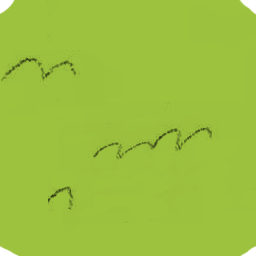
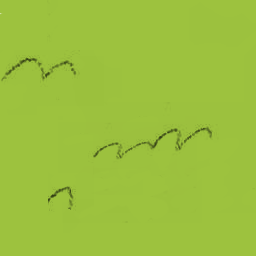
Ground sprites gefixt zodat er geen zwarte stipjes meer ontstaan. Main menu achter grond toegevoegd

diff --git a/GameManagement/GameObject.cs b/GameManagement/GameObject.cs
@@ -5,120 +5,136 @@ using System;
 
 namespace Poloknightse
 {
-	public class GameObject
-	{
-		protected GameObject parent;
-		protected Texture2D texture;
-		protected int layer;
-		protected string id;
-		public Point gridPosition;
-		public Vector2 velocity;
-		protected Rectangle positionSize;
+    public class GameObject
+    {
+        protected GameObject parent;
+        protected Texture2D texture;
+        protected int layer;
+        protected string id;
+        public Point gridPosition;
+        public Vector2 velocity;
+        protected Rectangle positionSize;
 
-		public GameObject(Point gridPosition, string assetName = null, int layer = 0)
-		{
-			this.gridPosition = gridPosition;
-			if (assetName != null)
-			{
-				texture = GameEnvironment.ContentManager.Load<Texture2D>(assetName);
-				positionSize = new Rectangle(0, 0, GameEnvironment.gridTileSize, GameEnvironment.gridTileSize);
-			}
-			this.layer = layer;
-		}
+        public GameObject(Point? gridPosition = null, string assetName = null, int layer = 0)
+        {
+            if (gridPosition == null) gridPosition = new Point();
+            this.gridPosition = gridPosition.Value;
+            if (assetName != null)
+            {
+                texture = GameEnvironment.ContentManager.Load<Texture2D>(assetName);
+            }
+            this.layer = layer;
+        }
 
-		/// <summary>
-		/// This will be called to reset the gameobject
-		/// </summary>
-		public virtual void Reset()
-		{
-
-		}
-
-		/// <summary>
-		/// This will be called after the level is loaded
-		/// </summary>
-		public virtual void Initialize()
+        /// <summary>
+        /// This will be called to reset the gameobject
+        /// </summary>
+        public virtual void Reset()
         {
 
         }
 
-		/// <summary>
-		/// HandleInput will be called every frame before <see cref="Update(GameTime)"/>
-		/// </summary>
-		/// <param name="inputHelper">Will help with getting input data</param>
-		public virtual void HandleInput(InputHelper inputHelper)
-		{
-		}
+        /// <summary>
+        /// This will be called after the level is loaded
+        /// </summary>
+        public virtual void Initialize()
+        {
 
-		/// <summary>
-		/// Update will be called every frame
-		/// </summary>
-		/// <param name="gameTime">Stores game time data</param>
-		public virtual void Update(GameTime gameTime)
-		{
-			positionSize = new Rectangle(
-				(int)gridPosition.X * GameEnvironment.gridTileSize + GameEnvironment.startGridPoint.X,
-				(int)gridPosition.Y * GameEnvironment.gridTileSize + GameEnvironment.startGridPoint.Y,
-				GameEnvironment.gridTileSize,
-				GameEnvironment.gridTileSize);
-		}
+        }
 
-		/// <summary>
-		/// FixedUpdate will be called on a set time frame
-		/// </summary>
-		/// <param name="gameTime">Stores game time data</param>
-		public virtual void FixedUpdate(GameTime gameTime)
-		{
-		}
+        /// <summary>
+        /// HandleInput will be called every frame before <see cref="Update(GameTime)"/>
+        /// </summary>
+        /// <param name="inputHelper">Will help with getting input data</param>
+        public virtual void HandleInput(InputHelper inputHelper)
+        {
+        }
 
-		public virtual void Draw(SpriteBatch spriteBatch)
-		{
-			spriteBatch.Draw(texture, positionSize, Color.White);
-		}
+        /// <summary>
+        /// Update will be called every frame
+        /// </summary>
+        /// <param name="gameTime">Stores game time data</param>
+        public virtual void Update(GameTime gameTime)
+        {
 
-		// boolean to check if to objects collide
-		public bool CheckCollision(GameObject gameObject)
-		{
-			float x0 = this.gridPosition.X,
-				  y0 = this.gridPosition.Y,
-				  x1 = gameObject.gridPosition.X,
-				  y1 = gameObject.gridPosition.Y;
-			if (x0 == x1 && y0 == y1)
-			{
-				return true;
-			}
-			else
-			{
-				return false;
-			}
-		}
-		public GameObject Root
-		{
-			get
-			{
-				if (parent != null)
-				{
-					return parent.Root;
-				}
-				else
-				{
-					return this;
-				}
-			}
-		}
-		public virtual GameObject Parent
-		{
-			get { return parent; }
-			set { parent = value; }
-		}
-		public virtual int Layer
-		{
-			get { return layer; }
-			set { layer = value; }
-		}
-		public string Id
-		{
-			get { return id; }
-		}
-	}
+        }
+
+        /// <summary>
+        /// FixedUpdate will be called on a set time frame
+        /// </summary>
+        /// <param name="gameTime">Stores game time data</param>
+        public virtual void FixedUpdate(GameTime gameTime)
+        {
+        }
+
+        public virtual void Draw(SpriteBatch spriteBatch)
+        {
+            positionSize = new Rectangle(
+                gridPosition.X * GameEnvironment.gridTileSize + GameEnvironment.startGridPoint.X,
+                gridPosition.Y * GameEnvironment.gridTileSize + GameEnvironment.startGridPoint.Y,
+                GameEnvironment.gridTileSize,
+                GameEnvironment.gridTileSize);
+            spriteBatch.Draw(texture, positionSize, Color.White);
+        }
+
+        // boolean to check if to objects collide
+        public bool CheckCollision(GameObject gameObject)
+        {
+            float x0 = this.gridPosition.X,
+                  y0 = this.gridPosition.Y,
+                  x1 = gameObject.gridPosition.X,
+                  y1 = gameObject.gridPosition.Y;
+            if (x0 == x1 && y0 == y1)
+            {
+                return true;
+            }
+            else
+            {
+                return false;
+            }
+        }
+
+        public bool IsInLevel
+        {
+            get
+            {
+                return LevelLoader.grid.GetLength(0) > gridPosition.X &&
+                    LevelLoader.grid.GetLength(1) > gridPosition.Y &&
+                    gridPosition.X >= 0 &&
+                    gridPosition.Y >= 0;
+            }
+        }
+
+        public GameObject Root
+        {
+            get
+            {
+                if (parent != null)
+                {
+                    return parent.Root;
+                }
+                else
+                {
+                    return this;
+                }
+            }
+        }
+
+        public virtual GameObject Parent
+        {
+            get { return parent; }
+            set { parent = value; }
+        }
+
+        public virtual int Layer
+        {
+            get { return layer; }
+            set { layer = value; }
+        }
+
+        public string Id
+        {
+            get { return id; }
+        }
+    }
 }

diff --git a/GameStates/StartState.cs b/GameStates/StartState.cs
@@ -1,36 +1,59 @@
 using Microsoft.Xna.Framework;
 using Microsoft.Xna.Framework.Graphics;
 using System;
+using System.Collections.Generic;
 using System.Diagnostics;
 
 namespace Poloknightse
 {
-	class StartState : GameState
-	{
-		public StartState()
-		{
+    class StartState : GameState
+    {
+        GameObjectList backgroundObjects = new GameObjectList();
+        List<Point> secretPlaces = new List<Point>();
 
-		}
+        public StartState()
+        {
+
+        }
 
         public override async void Init()
         {
-            base.Init();
-			
-			Debug.WriteLine((await HighscoreManager.LoadScore()).ToString());
+            LevelLoader.LoadLevel("MainMenu");
+            AddSecret(new Coin());
+            AddSecret(new HealthPickup());
+            AddSecret(new EnemyGhost());
+            AddSecret(new EnemyWalking());
+
+            Debug.WriteLine((await HighscoreManager.LoadScore()).ToString());
+        }
+
+        private void AddSecret(GameObject gameObject)
+        {
+            do
+            {
+                gameObject.gridPosition = new Point(GameEnvironment.Random.Next(1, LevelLoader.grid.GetLength(0) - 2), GameEnvironment.Random.Next(1, LevelLoader.grid.GetLength(1) - 2));
+            }
+            while (!gameObject.IsInLevel || secretPlaces.Contains(gameObject.gridPosition) || LevelLoader.grid[gameObject.gridPosition.X, gameObject.gridPosition.Y].tileType == Tile.TileType.WALL);
+
+            secretPlaces.Add(gameObject.gridPosition);
+            backgroundObjects.Add(gameObject);
         }
 
         public override void Draw(SpriteBatch spriteBatch)
         {
-			base.Draw(spriteBatch);
-		}
+
+            LevelLoader.Draw(spriteBatch);
+            backgroundObjects.Draw(spriteBatch);
+            base.Draw(spriteBatch);
+        }
 
         public override void HandleInput(InputHelper inputHelper)
-        {	
-			if (inputHelper.AnyKeyPressed)
-			{
-				GameEnvironment.SwitchTo("PlayingState");
-			}
-			base.HandleInput(inputHelper);
-		}
-	}
+        {
+            if (inputHelper.AnyKeyPressed)
+            {
+                GameEnvironment.SwitchTo("PlayingState");
+            }
+            base.HandleInput(inputHelper);
+        }
+    }
 }

diff --git a/GameStates/PlayingState.cs b/GameStates/PlayingState.cs
@@ -7,7 +7,7 @@ namespace Poloknightse
 {
     class PlayingState : GameState
     {
-        public GameObjectList players = new GameObjectList(Vector2.Zero.ToPoint());
+        public GameObjectList players = new GameObjectList();
         private int CoinAmount;
 
         public PlayingState()
@@ -26,7 +26,7 @@ namespace Poloknightse
         {
             gameObjectList.Clear();
 
-            LevelLoader.LoadLevel("Level-5");
+            LevelLoader.LoadLevel("test");
             gameObjectList.Add(players);
 
             //Count how many coins there are in the level

diff --git a/GameManagement/GameObjectList.cs b/GameManagement/GameObjectList.cs
@@ -9,8 +9,10 @@ namespace Poloknightse
     {
         protected List<GameObject> children;
 
-        public GameObjectList(Point gridPosition, int layer = 0, string id = "") : base(gridPosition, null, layer)
+        public GameObjectList(Point? gridPosition = null, int layer = 0, string id = "") : base(gridPosition, null, layer)
         {
+            if (gridPosition == null) gridPosition = Point.Zero;
+            this.gridPosition = gridPosition.Value;
             children = new List<GameObject>();
         }
 

diff --git a/GameManagement/LevelLoader.cs b/GameManagement/LevelLoader.cs
@@ -122,7 +122,7 @@ namespace Poloknightse
 
                 //Get position
                 int x = i % level.Width;
-                int y = i / level.Height;
+                int y = i / level.Width;
                 Rectangle rectangle = new Rectangle(x * gridTileSize + xOffset, y * gridTileSize + yOffset, gridTileSize, gridTileSize);
 
                 //Set tile

diff --git a/GameObjects/EnemyGhost.cs b/GameObjects/EnemyGhost.cs
@@ -149,7 +149,7 @@ namespace Poloknightse
     {
         private const int TrackingDistance = 10;
 
-        public EnemyGhost(Point gridPosition) : base(gridPosition, "GameObjects/Enemies/EnemyGhost")
+        public EnemyGhost(Point gridPosition = new Point()) : base(gridPosition, "GameObjects/Enemies/EnemyGhost")
         {
 
         }

diff --git a/GameObjects/HealthPickup.cs b/GameObjects/HealthPickup.cs
@@ -9,7 +9,7 @@ namespace Poloknightse
 {
     class HealthPickup : GameObject
     {
-        public HealthPickup(Point gridPosition) : base(gridPosition, "GameObjects/HealthPickup")
+        public HealthPickup(Point gridPosition = new Point()) : base(gridPosition, "GameObjects/HealthPickup")
         {
 
         }

diff --git a/GameObjects/EnemyWalking.cs b/GameObjects/EnemyWalking.cs
@@ -195,7 +195,7 @@ namespace Poloknightse
 
         }
 
-        public EnemyWalking(Point gridPosition) : base(gridPosition, "GameObjects/Player/Koning")
+        public EnemyWalking(Point gridPosition = new Point()) : base(gridPosition, "GameObjects/Player/Koning")
         {
 
         }

diff --git a/GameObjects/Coin.cs b/GameObjects/Coin.cs
@@ -9,7 +9,7 @@ namespace Poloknightse
 {
     class Coin: GameObject
     {
-        public Coin(Point gridPosition) : base(gridPosition, "GameObjects/bronze_coin")
+        public Coin(Point gridPosition = new Point()) : base(gridPosition, "GameObjects/bronze_coin")
         {
 
         }
